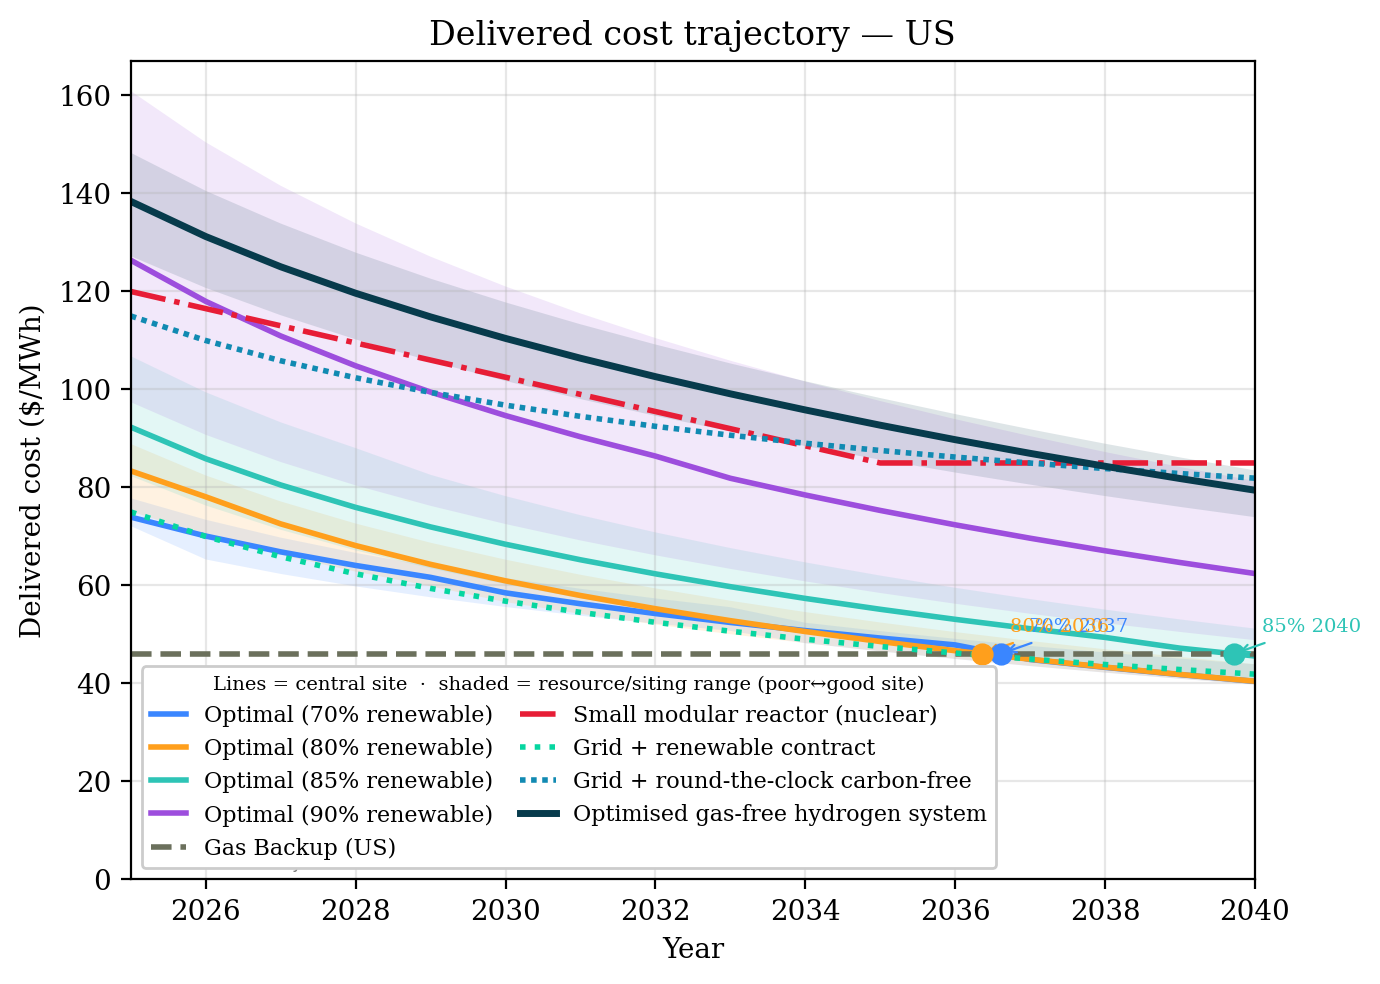
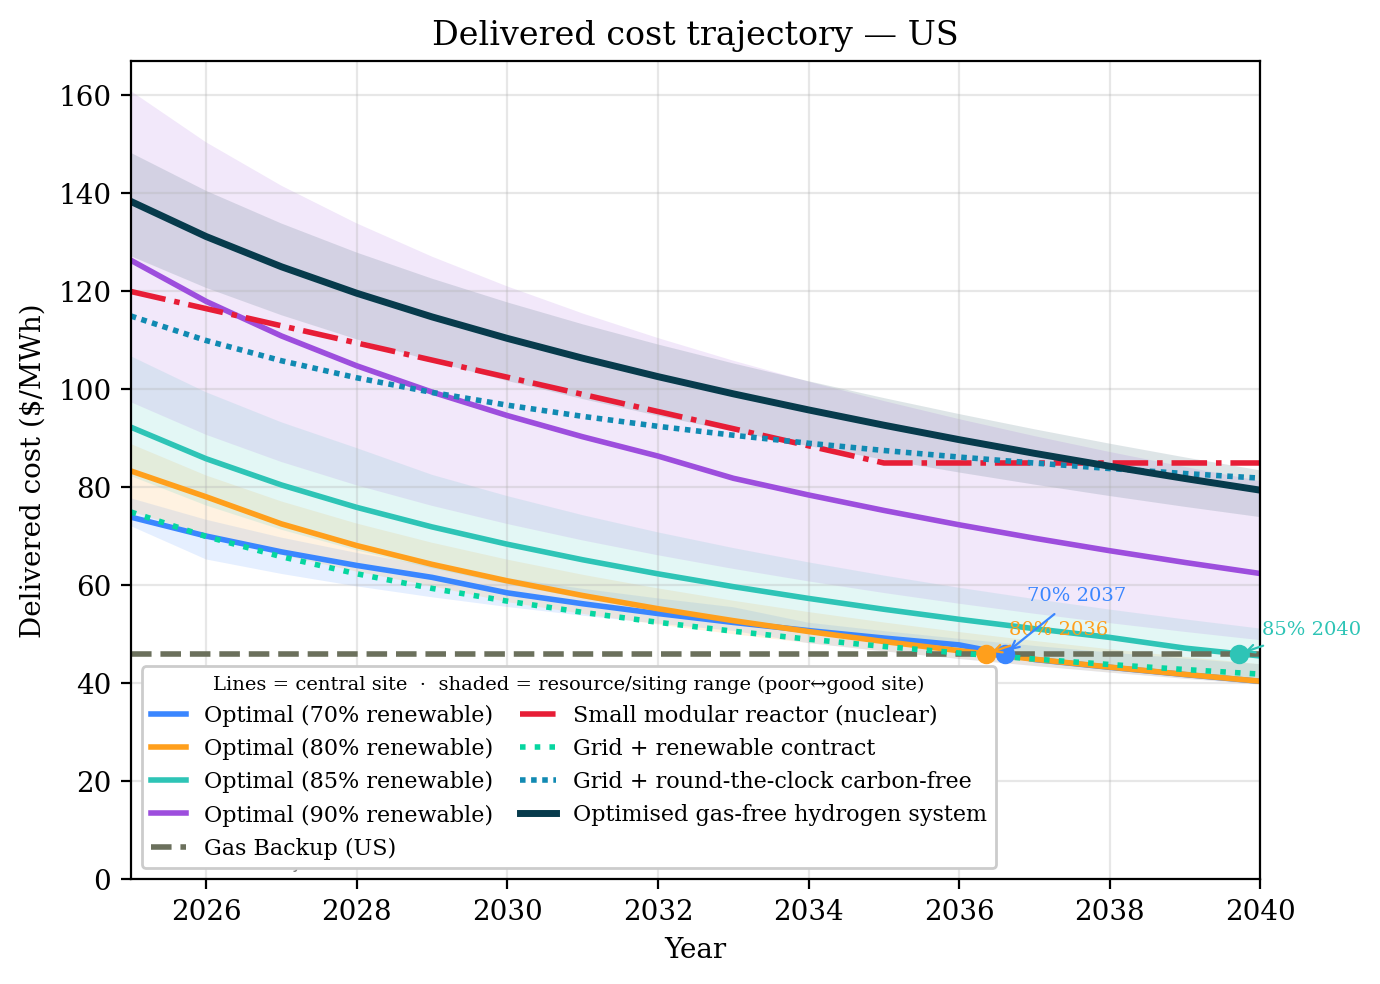
fig1: stack crossover-year labels so they don't overlap
The crossover tags ("70% 2037" etc.) were drawn per-curve at a fixed offset, blind to
each other, so they collided when curves cross the gas baseline in nearby years (e.g.
US 80% 2036 / 70% 2037). Collect all crossings and stack their tags vertically when they
fall within ~2.5 years of one another. Figure + report regenerated; results unchanged.

diff --git a/lcoe/plots.py b/lcoe/plots.py
@@ -44,16 +44,36 @@ REFS  = "Lazard v18 · Way et al. Joule 2022 · NREL ATB 2024 · EU ETS · IPCC 
 PALETTE = ["#3A86FF", "#FF9F1C", "#2EC4B6", "#9D4EDD", "#FB5607", "#E71D36"]
 
 
-def _crossings(ax, years, series, baseline, color, label):
-    diff = series - baseline
-    idxs = np.where(np.diff(np.sign(diff)))[0]
-    for idx in idxs:
-        frac = diff[idx] / (diff[idx] - diff[idx+1])
+def _find_crossings(years, series, baseline, color, label):
+    """Interpolated points where `series` crosses `baseline` → [(cx, cy, color, label)]."""
+    diff = np.asarray(series, float) - np.asarray(baseline, float)
+    out = []
+    for idx in np.where(np.diff(np.sign(diff)))[0]:
+        denom = diff[idx] - diff[idx + 1]
+        if denom == 0:
+            continue
+        frac = diff[idx] / denom
         cx = years[idx] + frac
-        cy = baseline[idx] + frac * (baseline[idx+1] - baseline[idx])
-        ax.plot(cx, cy, "o", color=color, ms=7, zorder=5)
-        ax.annotate(f"{label} {cx:.0f}", xy=(cx, cy), xytext=(10, 8),
-                    textcoords="offset points", fontsize=7, color=color,
+        cy = baseline[idx] + frac * (baseline[idx + 1] - baseline[idx])
+        out.append((float(cx), float(cy), color, label))
+    return out
+
+
+def _place_crossings(ax, crossings, min_dx=2.5, step=12, base_dy=7):
+    """Draw a marker at each crossing and a "{label} {year}" tag, stacking the tags
+    vertically when crossings fall within `min_dx` years of one another so they never
+    overlap (each call previously placed tags at a fixed offset, blind to the others)."""
+    for cx, cy, color, _ in crossings:
+        ax.plot(cx, cy, "o", color=color, ms=6, zorder=5)
+    placed = []   # (cx, level) of tags already laid down, for cluster de-confliction
+    for cx, cy, color, label in sorted(crossings, key=lambda c: c[0]):
+        level = 0
+        for px, plevel in placed:
+            if abs(cx - px) < min_dx:
+                level = max(level, plevel + 1)
+        placed.append((cx, level))
+        ax.annotate(f"{label} {cx:.0f}", xy=(cx, cy), xytext=(8, base_dy + level * step),
+                    textcoords="offset points", fontsize=7, color=color, zorder=6,
                     arrowprops=dict(arrowstyle="->", color=color, lw=0.8))
 
 
@@ -68,6 +88,7 @@ def plot_cost_trajectories(results, region="US"):
     # Legend labels are spelled out (no RE / SMR / PPA / CFE / H₂ acronyms) for readers
     # unfamiliar with the jargon; the gas-baseline label keeps its descriptive name (it
     # reflects the firming choice — natural gas or green hydrogen).
+    crossings = []
     for R, col in zip(Rs, PALETTE):
         sc = results["scenarios"][R]
         ax.plot(yrs, sc["opt_delivered"], color=col, lw=2,
@@ -75,7 +96,9 @@ def plot_cost_trajectories(results, region="US"):
         if "opt_delivered_reslo" in sc:
             ax.fill_between(yrs, sc["opt_delivered_reslo"], sc["opt_delivered_reshi"],
                             color=col, alpha=0.13, edgecolor="none")
-        _crossings(ax, yrs, sc["opt_delivered"], results["gas_pure"], col, f"{R:.0%}")
+        crossings += _find_crossings(yrs, sc["opt_delivered"], results["gas_pure"],
+                                     col, f"{R:.0%}")
+    _place_crossings(ax, crossings)
     ax.plot(yrs, results["gas_pure"], color=C_GAS, lw=2, ls="--", label=results["gas_name"])
     ax.plot(yrs, results["lcoe_smr"], color=C_SMR, lw=2, ls="-.",
             label="Small modular reactor (nuclear)")